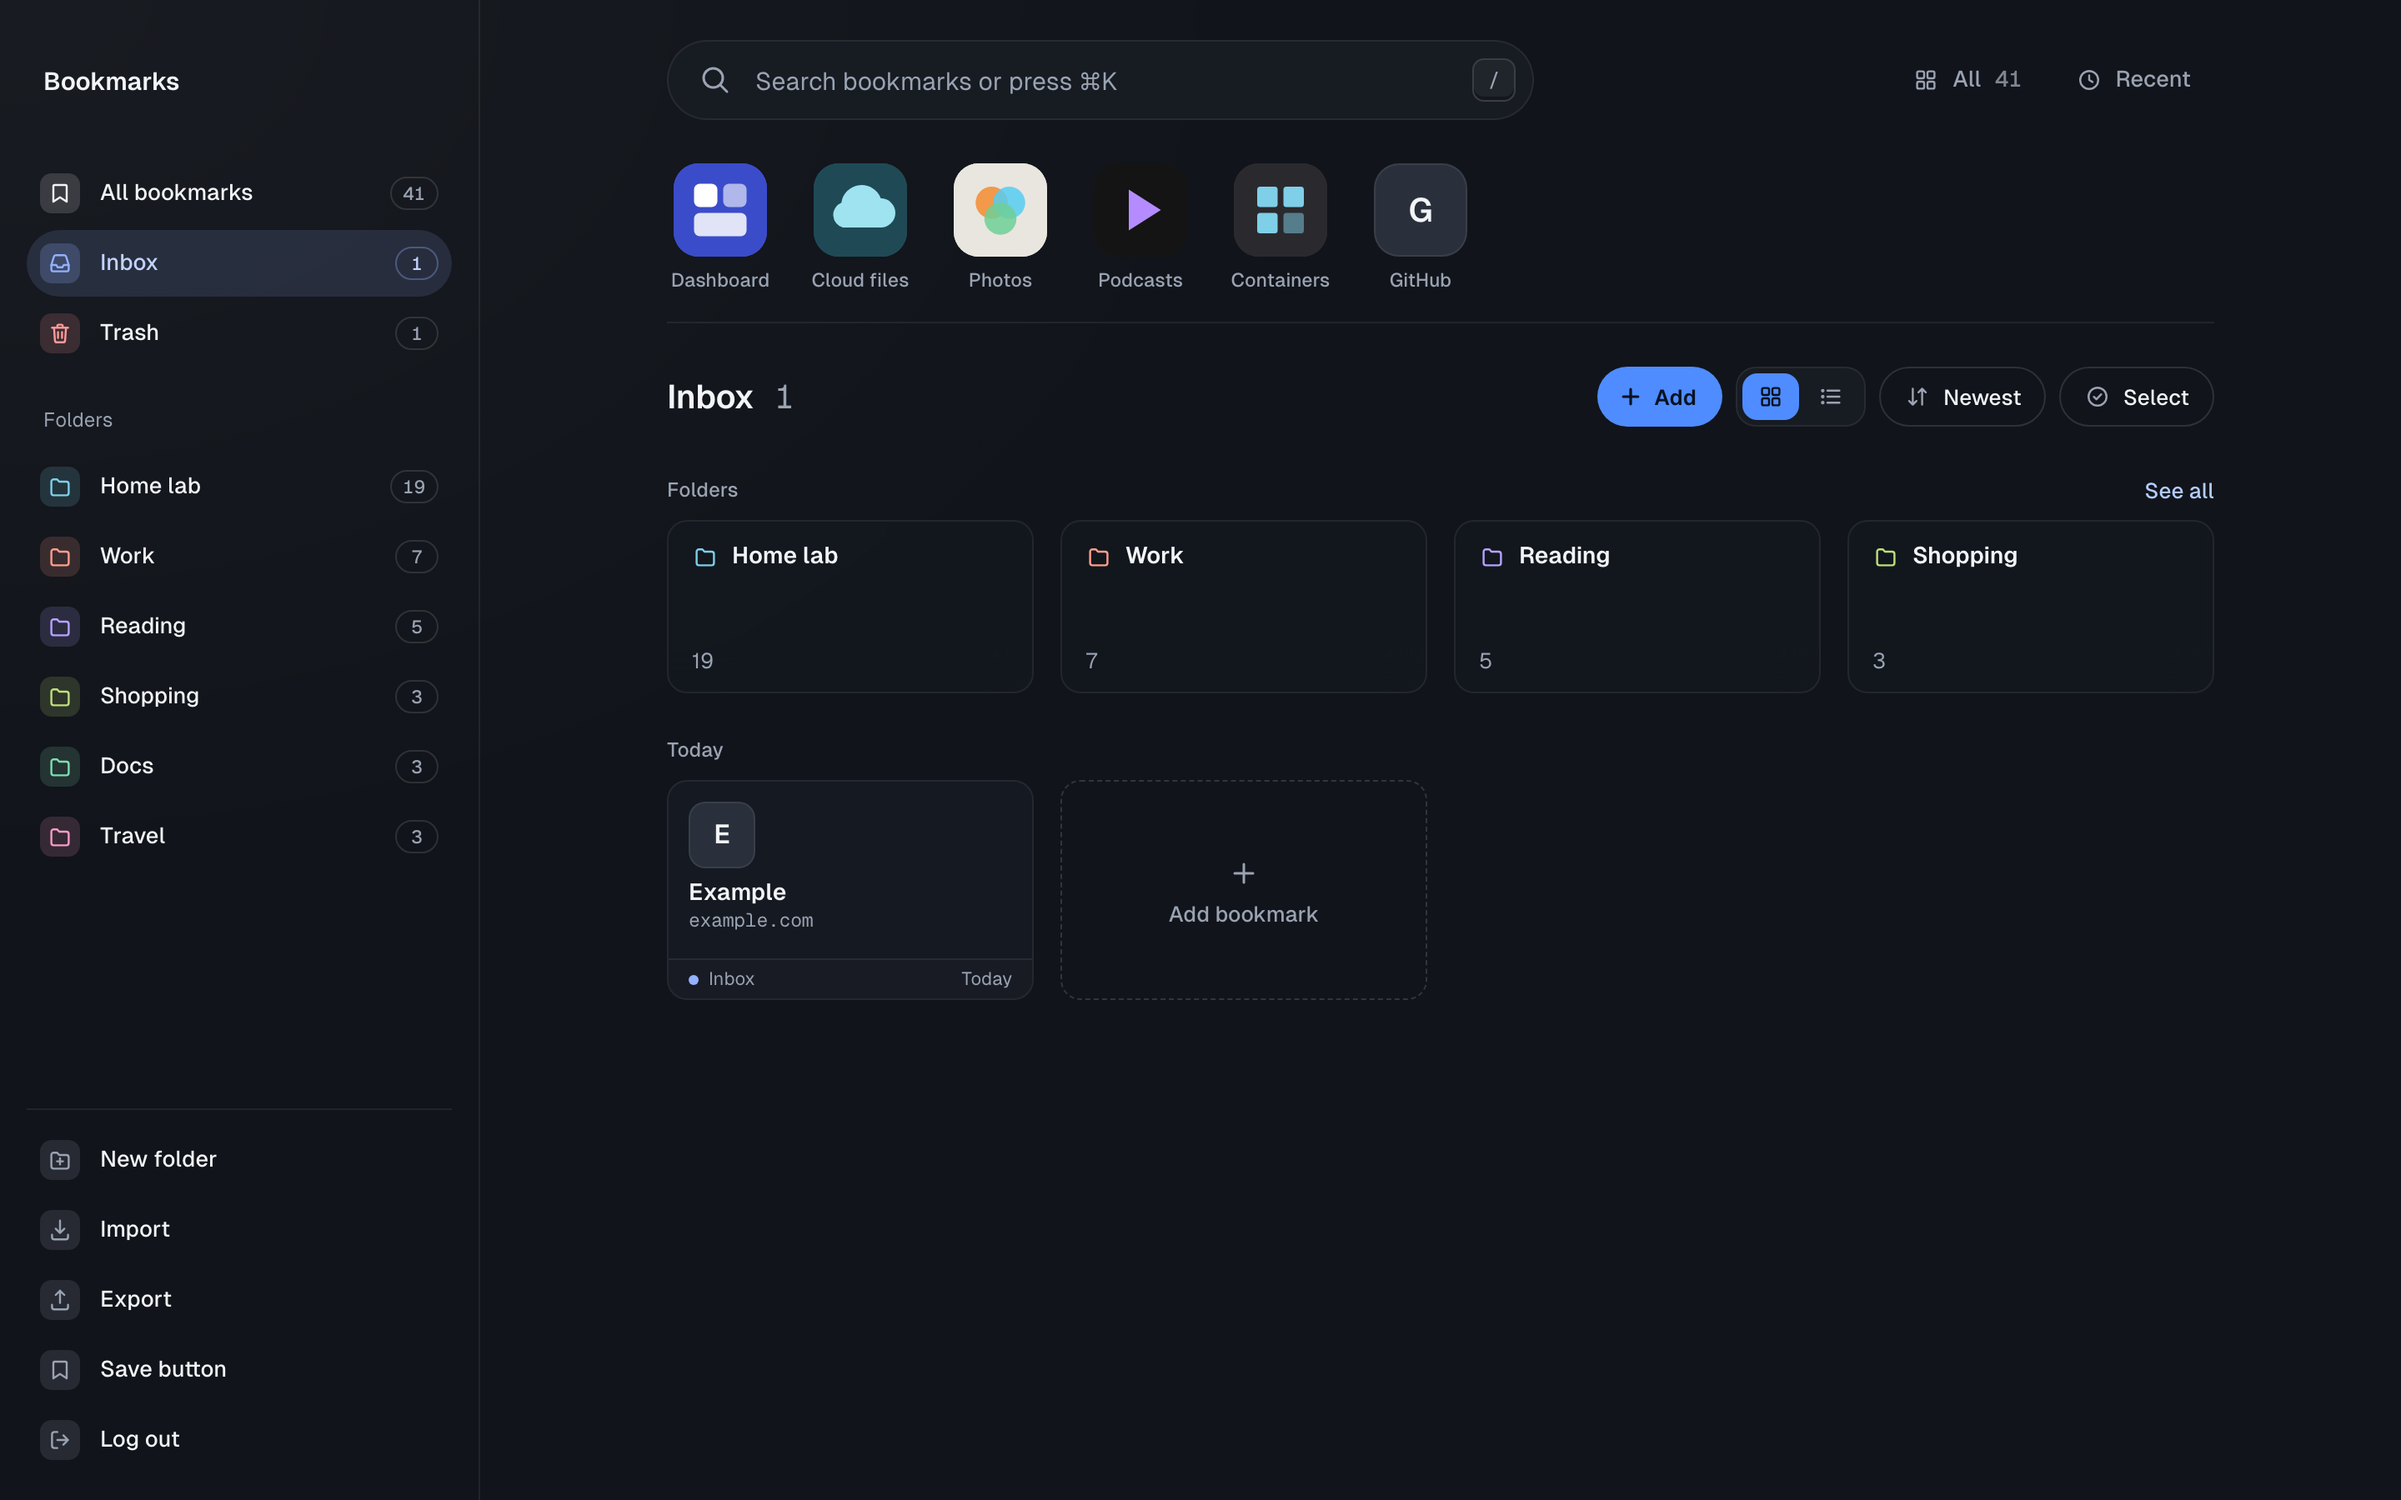
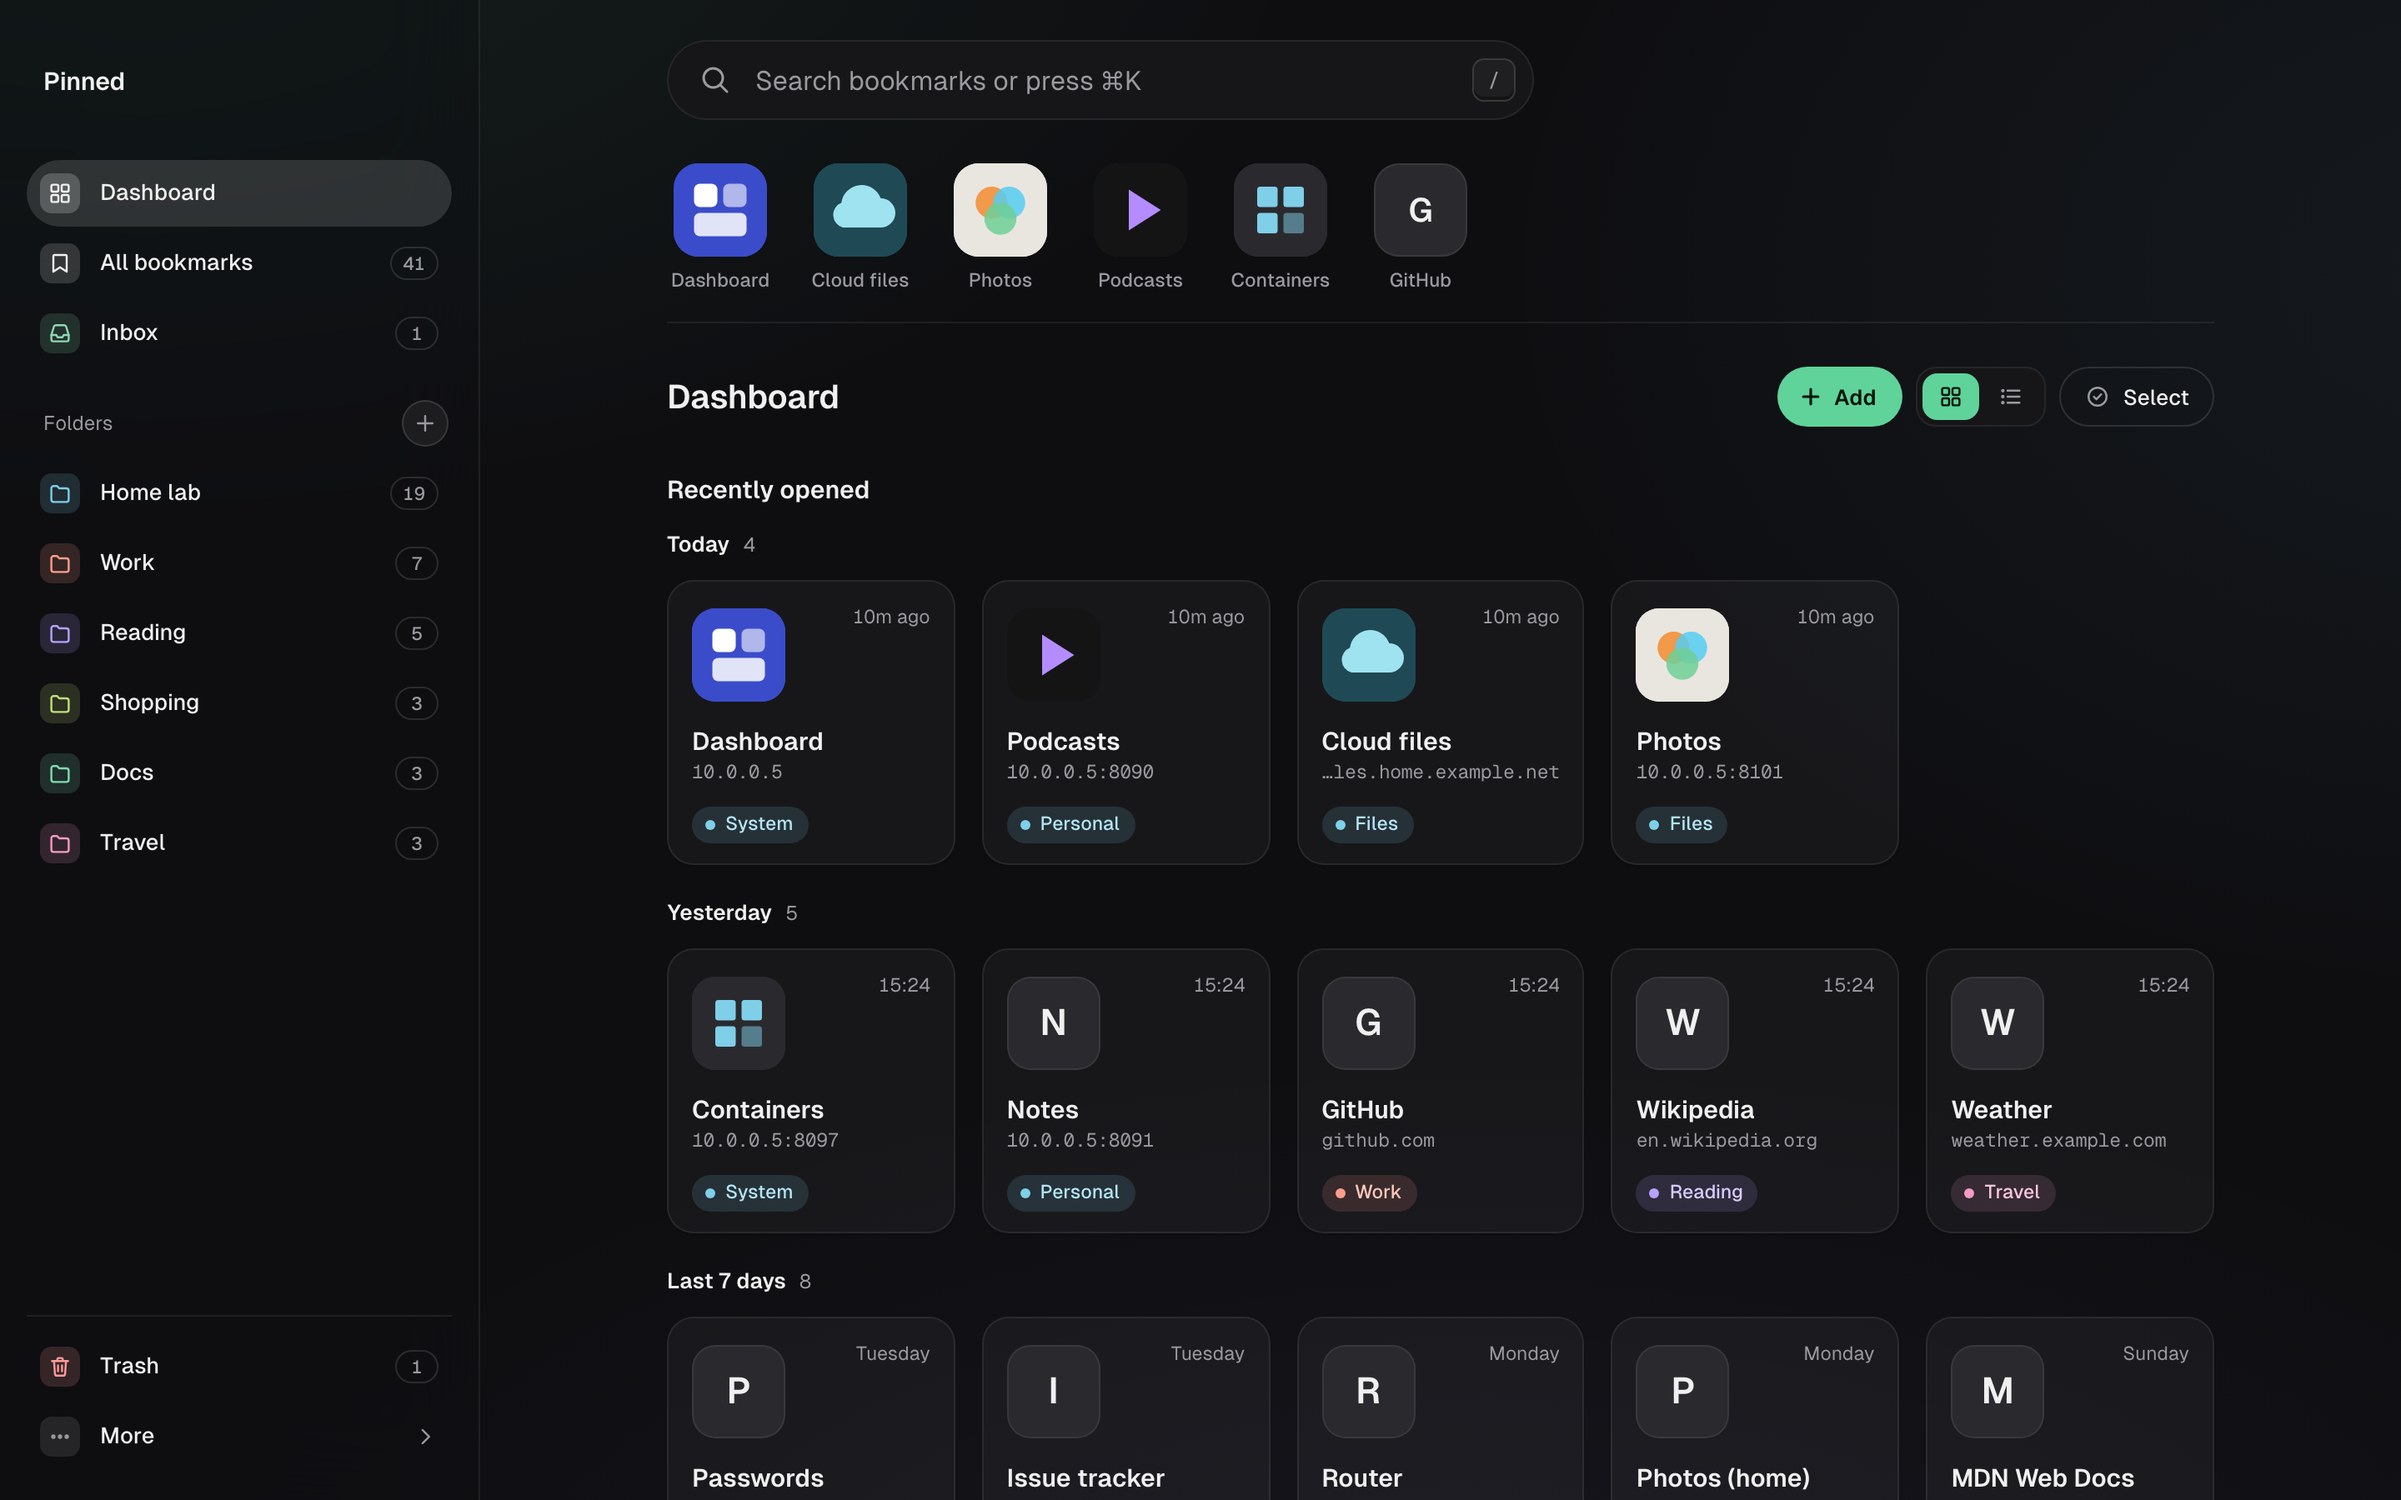
0.1.2: the new look in the README screenshot, changelog

diff --git a/README.md b/README.md
@@ -2,7 +2,7 @@
 
 A self-hosted bookmark manager and start page for the services you run at home. Folders instead of tags, one user, one SQLite file. No tags, no page archiving, no accounts.
 
-![The app on a desktop: the Inbox with folders, a pinned row of services and one saved link](docs/screenshot.png)
+![The app on a desktop: the Dashboard with a pinned row of services and recently opened bookmarks](docs/screenshot.png)
 
 Folders that nest, search, a pinned row, an Inbox for quick saves, a Trash that keeps things for 30 days, import and export in the format every browser uses, a Save button for every browser, and search from the browser address bar (`/opensearch.xml`). One password, one binary, one data folder.
 

diff --git a/CHANGELOG.md b/CHANGELOG.md
@@ -2,7 +2,7 @@
 
 Everything that changes for people who run the app goes here. Versions follow semantic versioning once the first release is tagged.
 
-## Unreleased
+## 0.1.2, 2026-10-22
 
 ### New
 
